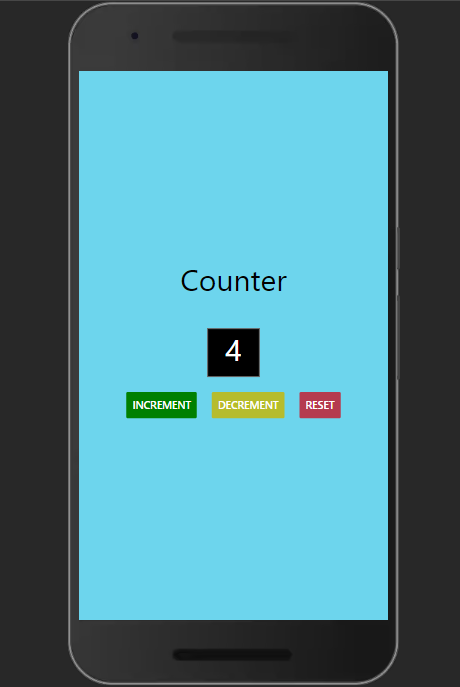
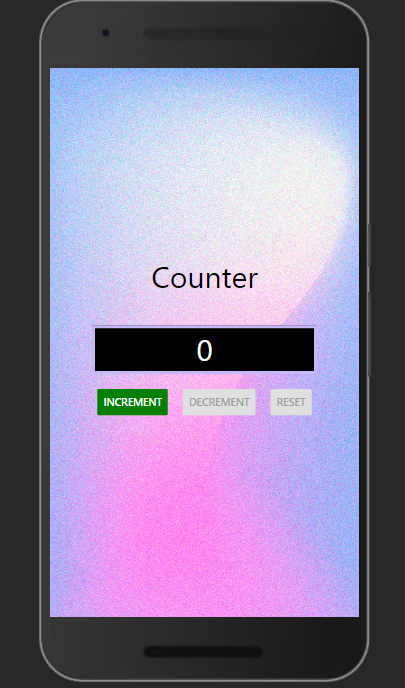
Ekran görüntüsü added

diff --git a/App.tsx b/App.tsx
@@ -6,12 +6,12 @@ export default function App() {
   const [count, setCount] = useState(0);
 
   return (
-   
-   
-      <ImageBackground
-        source={require("./assets/bgImage.jpg")}
-        style={{ flex: 1, width: null, height: null }}
-      > <View style={styles.container}>
+    <ImageBackground
+      source={require("./assets/bgImage.jpg")}
+      style={{ flex: 1, width: null, height: null }}
+    >
+      {" "}
+      <View style={styles.container}>
         <Text style={[styles.headText]}>Counter</Text>
         <Text style={styles.infoText}>{count}</Text>
         <View style={{ flexDirection: "row", margin: 10 }}>
@@ -40,8 +40,8 @@ export default function App() {
           </View>
         </View>
         <StatusBar style="auto" />
-    
-    </View>  </ImageBackground>
+      </View>{" "}
+    </ImageBackground>
   );
 }
 
@@ -51,17 +51,16 @@ const styles = StyleSheet.create({
     flex: 1,
     justifyContent: "center",
     alignItems: "center",
-    width:"100%"
+    width: "100%",
   },
   headText: {
     fontSize: 40,
     marginBottom: 40,
     textAlign: "center",
-   
   },
   infoText: {
     height: 65,
-    width:300,
+    width: 300,
     backgroundColor: "black",
     color: "white",
     borderWidth: 4,
